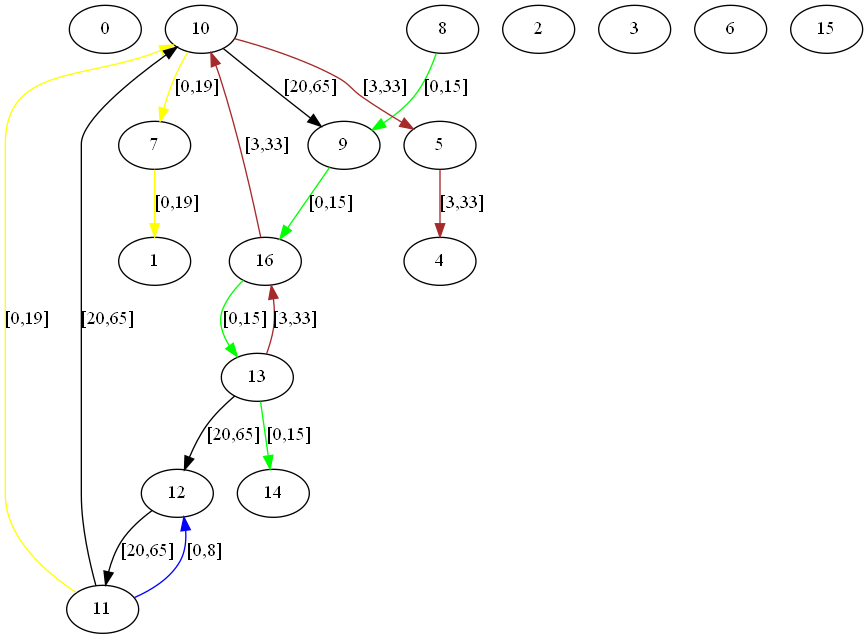
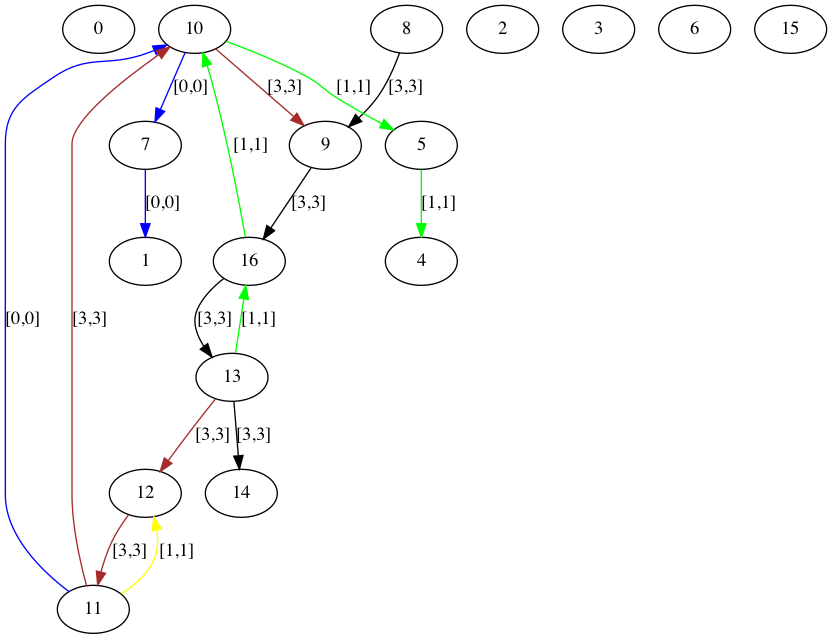
one path

diff --git a/src/RSABuilder.py b/src/RSABuilder.py
@@ -3,7 +3,7 @@ from typing import Callable
 from networkx import MultiDiGraph
 from demands import Demand
 from niceBDD import *
-from niceBDDBlocks import ChannelFullNoClashBlock, ChannelNoClashBlock, ChannelOverlap, ChannelSequentialBlock, DynamicAddBlock, ChangedBlock, DemandPathBlock, DynamicVarsFullNoClash, DynamicVarsNoClashBlock, DynamicVarsRemoveIllegalAssignments, EncodedFixedPathBlock, FixedPathBlock, InBlock, ModulationBlock, OutBlock, PathOverlapsBlock, PassesBlock, PathBlock, RoutingAndChannelBlock, SingleOutBlock, SourceBlock, SplitAddAllBlock, SplitAddBlock, SubSpectrumAddBlock, TargetBlock, TrivialBlock
+from niceBDDBlocks import ChannelFullNoClashBlock, ChannelNoClashBlock, ChannelOverlap, ChannelSequentialBlock, DynamicAddBlock, ChangedBlock, DemandPathBlock, DynamicVarsFullNoClash, DynamicVarsNoClashBlock, DynamicVarsRemoveIllegalAssignments, EncodedFixedPathBlock, FixedPathBlock, InBlock, ModulationBlock, OnePathFullNoClashBlock, OutBlock, PathOverlapsBlock, PassesBlock, PathBlock, RoutingAndChannelBlock, SingleOutBlock, SourceBlock, SplitAddAllBlock, SplitAddBlock, SubSpectrumAddBlock, TargetBlock, TrivialBlock
 from niceBDDBlocks import EncodedFixedPathBlockSplit, EncodedChannelNoClashBlock, PathEdgeOverlapBlock, FailoverBlock, EncodedPathCombinationsTotalyRandom
 import topology
 import demand_ordering
@@ -64,6 +64,8 @@ class AllRightBuilder:
         self.__channel_data = None
         
         self.__modulation = { 0: 3, 250: 4}
+        
+        self.__onepath = False
 
      
 
@@ -226,6 +228,10 @@ class AllRightBuilder:
 
         return self
     
+    def one_path(self):
+        self.__onepath = True
+        return self
+
     def __channel_increasing_construct(self):
         def sum_combinations(demands):
             numbers = [m * d.size for d in demands.values() for m in d.modulations ]
@@ -266,6 +272,8 @@ class AllRightBuilder:
                 
                 if self.__dynamic_vars:
                     base = DynamicVarsBDD(self.__topology, self.__demands, channel_data, self.__static_order, reordering=self.__reordering, paths=self.__paths, overlapping_paths=self.__overlapping_paths)
+                elif self.__onepath:
+                    base = OnePathBDD(self.__topology, self.__demands, channel_data, self.__static_order, reordering=self.__reordering, paths=self.__paths, overlapping_paths=self.__overlapping_paths)
                 else:   
                     base = DefaultBDD(self.__topology, self.__demands, channel_data, self.__static_order, reordering=self.__reordering, paths=self.__paths, overlapping_paths=self.__overlapping_paths)
                 
@@ -377,7 +385,11 @@ class AllRightBuilder:
             print("done with no clash")
             
             return (DynamicVarsFullNoClash(no_clash, self.__distance_modulation, base),  time.perf_counter() - start_time)
-            
+        
+        if self.__onepath:
+            channelOverlap = ChannelOverlap(base)
+            return (OnePathFullNoClashBlock(self.__distance_modulation, channelOverlap, base),  time.perf_counter() - start_time)
+
         
         source = SourceBlock(base)
         target = TargetBlock(base)
@@ -441,6 +453,8 @@ class AllRightBuilder:
             else:
                 if self.__dynamic_vars:
                     base = DynamicVarsBDD(self.__topology, self.__demands, self.__channel_data, self.__static_order, reordering=self.__reordering, paths=self.__paths, overlapping_paths=self.__overlapping_paths)
+                elif self.__onepath:
+                    base = OnePathBDD(self.__topology, self.__demands, self.__channel_data, self.__static_order, reordering=self.__reordering, paths=self.__paths, overlapping_paths=self.__overlapping_paths)
                 else:
                     base = DefaultBDD(self.__topology, self.__demands, self.__channel_data, self.__static_order, reordering=self.__reordering, paths=self.__paths, overlapping_paths=self.__overlapping_paths)
                 (self.result_bdd, build_time) = self.__build_rsa(base)
@@ -507,10 +521,10 @@ class AllRightBuilder:
 if __name__ == "__main__":
     G = topology.get_nx_graph("topologies/japanese_topologies/dt.gml")
     #G = topology.get_nx_graph("topologies/topzoo/Ai3.gml")
-    demands = topology.get_gravity_demands2_nodes_have_constant_size(G, 5 ,seed=10)
+    demands = topology.get_demands_size_x(G, 5 ,seed=10)
     demands = demand_ordering.demand_order_sizes(demands)
     print(demands)
-    p = AllRightBuilder(G, demands, 1, slots=320).modulation({0:1}).limited().path_type(AllRightBuilder.PathType.DISJOINT).sub_spectrum(4).construct()
+    p = AllRightBuilder(G, demands, 1, slots=20).modulation({0:1}).limited().path_type(AllRightBuilder.PathType.DISJOINT).one_path().construct()
     print(p.get_build_time())
     print(p.solved())
 

diff --git a/src/niceBDDBlocks.py b/src/niceBDDBlocks.py
@@ -2,7 +2,7 @@ from enum import Enum
 import time
 from typing import Callable
 
-from niceBDD import BaseBDD, ET, DynamicBDD, DynamicVarsBDD, SplitBDD, prefixes
+from niceBDD import BaseBDD, ET, DynamicBDD, DynamicVarsBDD, OnePathBDD, SplitBDD, prefixes
 
 has_cudd = False
 
@@ -764,7 +764,44 @@ class SubSpectrumAddBlock():
         
         for n in news:
             self.expr &= n
-    
 
+
+class OnePathFullNoClashBlock():
+    def __init__(self, modulation: Callable, channel_overlaps, base: OnePathBDD):
+        self.base = base
+        self.expr = base.bdd.true
+        assignments_expr = base.bdd.true
+
+        for d in base.demand_vars.keys():
+            
+            channel_expr = base.bdd.false
+
+            for channel in base.demand_to_channels[d]:
+                path_index = base.d_to_paths[d][0]
+                
+                if len(channel) == modulation(base.paths[path_index]) * base.demand_vars[d].size: #TODO Obs at dette skal muligvis ændres ift. afrunding af channel størrelser
+                    channel_expr |= base.encode(ET.CHANNEL, base.get_index(channel, ET.CHANNEL), d)
+                                
+            assignments_expr &= channel_expr
+        
+        self.expr = assignments_expr
+
+        cc_list = base.get_encoding_var_list(ET.CHANNEL, base.get_prefix_multiple(ET.CHANNEL, 2))
+        no_clashes = []
+        
+        for d1 in base.demand_vars:
+            for d2 in base.demand_vars:
+                if d1 <= d2 or (base.d_to_paths[d1][0], base.d_to_paths[d2][0]) not in base.overlapping_paths:
+                    continue
+                
+                subst = {}
+                subst.update(base.get_channel_vector(d1))
+                subst.update(base.make_subst_mapping(cc_list, list(base.get_channel_vector(d2).values())))
+                
+                # This is for whatever reason faster than anding the no_clashes to an expr independently 
+                no_clashes.append(~base.bdd.let(subst, channel_overlaps.expr))
+                    
+        for no_clash in no_clashes:
+            self.expr &= no_clash
 if __name__ == "__main__":
     pass

diff --git a/src/run_bdd.py b/src/run_bdd.py
@@ -1,7 +1,7 @@
 import argparse
 import time
 from RSABuilder import AllRightBuilder
-from topology import get_gravity_demands, get_nx_graph, get_gravity_demands2_nodes_have_constant_size
+from topology import get_gravity_demands, get_nx_graph, get_gravity_demands2_nodes_have_constant_size, get_demands_size_x
 from demand_ordering import demand_order_sizes
 
 rw = None
@@ -102,6 +102,25 @@ if __name__ == "__main__":
     elif (args.experiment == "clique_limit_and_limited"):
         bob = AllRightBuilder(G, demands, num_paths).limited().clique(True).construct()
         (solved, size, solve_time) = (bob.solved(), bob.size(), bob.get_build_time())  
+    elif (args.experiment == "single_path_limited_increasing"):
+        p1 = int(p1) if p1 is not None else 10
+        demands = get_demands_size_x(G, args.demands, seed=p1, size=1)
+        demands = demand_order_sizes(demands)
+        print(demands)
+        print("seed:", p1)
+        bob = AllRightBuilder(G, demands, 1, slots=len(demands)).path_type(path_type=AllRightBuilder.PathType.SHORTEST).modulation({0:1}).limited().one_path().increasing(False).construct()
+        (solved, size, solve_time) = (bob.solved(), bob.size(), bob.get_build_time())
+    elif (args.experiment == "single_path_limited_increasing_gravity_demands"):
+        p1 = int(p1) if p1 is not None else 10
+        demands = get_gravity_demands2_nodes_have_constant_size(G, args.demands, seed=p1)
+        demands = demand_order_sizes(demands)
+        print(demands)
+        
+        bob = AllRightBuilder(G, demands, 1, 320).path_type(path_type=AllRightBuilder.PathType.SHORTEST).limited().one_path().increasing(False).construct()
+        (solved, size, solve_time) = (bob.solved(), bob.size(), bob.get_build_time())
+        
+        
+        
         
     # if args.experiment == "baseline":
     #     bob = AllRightBuilder(G, demands, wavelengths).construct()

diff --git a/src/niceBDD.py b/src/niceBDD.py
@@ -171,11 +171,13 @@ class BaseBDD:
         return expr
 
     
-    def encode(self, type: ET, number: int):
+    def encode(self, type: ET, number: int, demand_number=None):
         encoding_count = self.encoding_counts[type]
         encoding_expr = self.bdd.true
         for j in range(encoding_count):
-            v = self.bdd.var(f"{prefixes[type]}{j+1}")
+            post_fix = f"_{demand_number}" if demand_number is not None else ""
+
+            v = self.bdd.var(f"{prefixes[type]}{j+1}"+ post_fix) 
             if not (number >> (j)) & 1:
                 v = ~v
 
@@ -427,3 +429,36 @@ class DynamicVarsBDD(BaseBDD):
             l2.append(self.get_channel_var(channel, demand, override))
 
         return self.make_subst_mapping(l1, l2)
+    
+
+class OnePathBDD(BaseBDD):
+    def __init__(self, topology, demands, channel_data, ordering, reordering=True, paths=[], overlapping_paths=[]):
+        super().__init__(topology,demands, channel_data, ordering, reordering,paths,overlapping_paths)
+        
+        self.encoding_counts = {
+            ET.CHANNEL: max(1, math.ceil(math.log2(len(self.unique_channels))))
+        }
+
+        self.gen_vars(ordering)
+
+    def gen_vars(self,ordering):
+        for type in ordering:
+            if type == ET.CHANNEL:
+                self.declare_generic_and_specific_variables(ET.CHANNEL, list(range(1,1+self.encoding_counts[ET.CHANNEL])))
+
+    def get_assignments(self, expr,amount):
+        
+        care_vars = []
+        for d in self.demand_vars:
+            care_vars.extend(self.get_channel_vector(d).values())
+        
+        assignments = []
+        
+        for a in (self.bdd.pick_iter(expr, care_vars)):
+            
+            if len(assignments) == amount:
+                return assignments
+        
+            assignments.append(a)
+        
+        return assignments

diff --git a/src/topology.py b/src/topology.py
@@ -105,6 +105,15 @@ def get_gravity_demands2_nodes_have_constant_size(graph: nx.MultiDiGraph, amount
 
     return demands
 
+def get_demands_size_x(graph: nx.MultiDiGraph, amount: int, seed=10, offset = 0, highestuniformthing = 7, size=1):
+    ds = get_gravity_demands2_nodes_have_constant_size(graph, amount, seed, offset,highestuniformthing)
+    
+    for i,d in ds.items():
+        d.size = size
+    
+    return ds
+
+
 
 class ReducedDemands:
     def __init__(self, demands, reduction_factor, unique_channels, wasted_frequencies, percentage_size_increase, fewer_channels):
@@ -205,6 +214,7 @@ def get_demands(graph: nx.MultiDiGraph, amount: int, offset = 0, seed=10) -> dic
         demands[len(demands)+offset] = Demand(source, target,1)
 
     return demands
+
 
 
 def get_simple_paths(G: nx.MultiDiGraph, demands, number_of_paths, shortest=False):

diff --git a/src/rsa/rsa_draw.py b/src/rsa/rsa_draw.py
@@ -4,7 +4,7 @@ import matplotlib.pyplot as plt
 import pydot
 import sys
 sys.path.append("../")
-from niceBDD import DynamicVarsBDD
+from niceBDD import DynamicVarsBDD, OnePathBDD
 import topology
 from demands import Demand
 from rsa.rsa_bdd import BDD, RSAProblem
@@ -85,6 +85,8 @@ def draw_assignment_path_vars(assignment: dict[str, bool], base, paths: list[lis
     
     counting_path_number = {str(k): 0 for k in base.demand_vars.keys()}
     
+    if isinstance(base, OnePathBDD):
+        counting_path_number = {str(k): base.d_to_paths[k][0] for k in base.demand_vars.keys()}
 
     if failover: 
         id_of_edge_removed = 0
